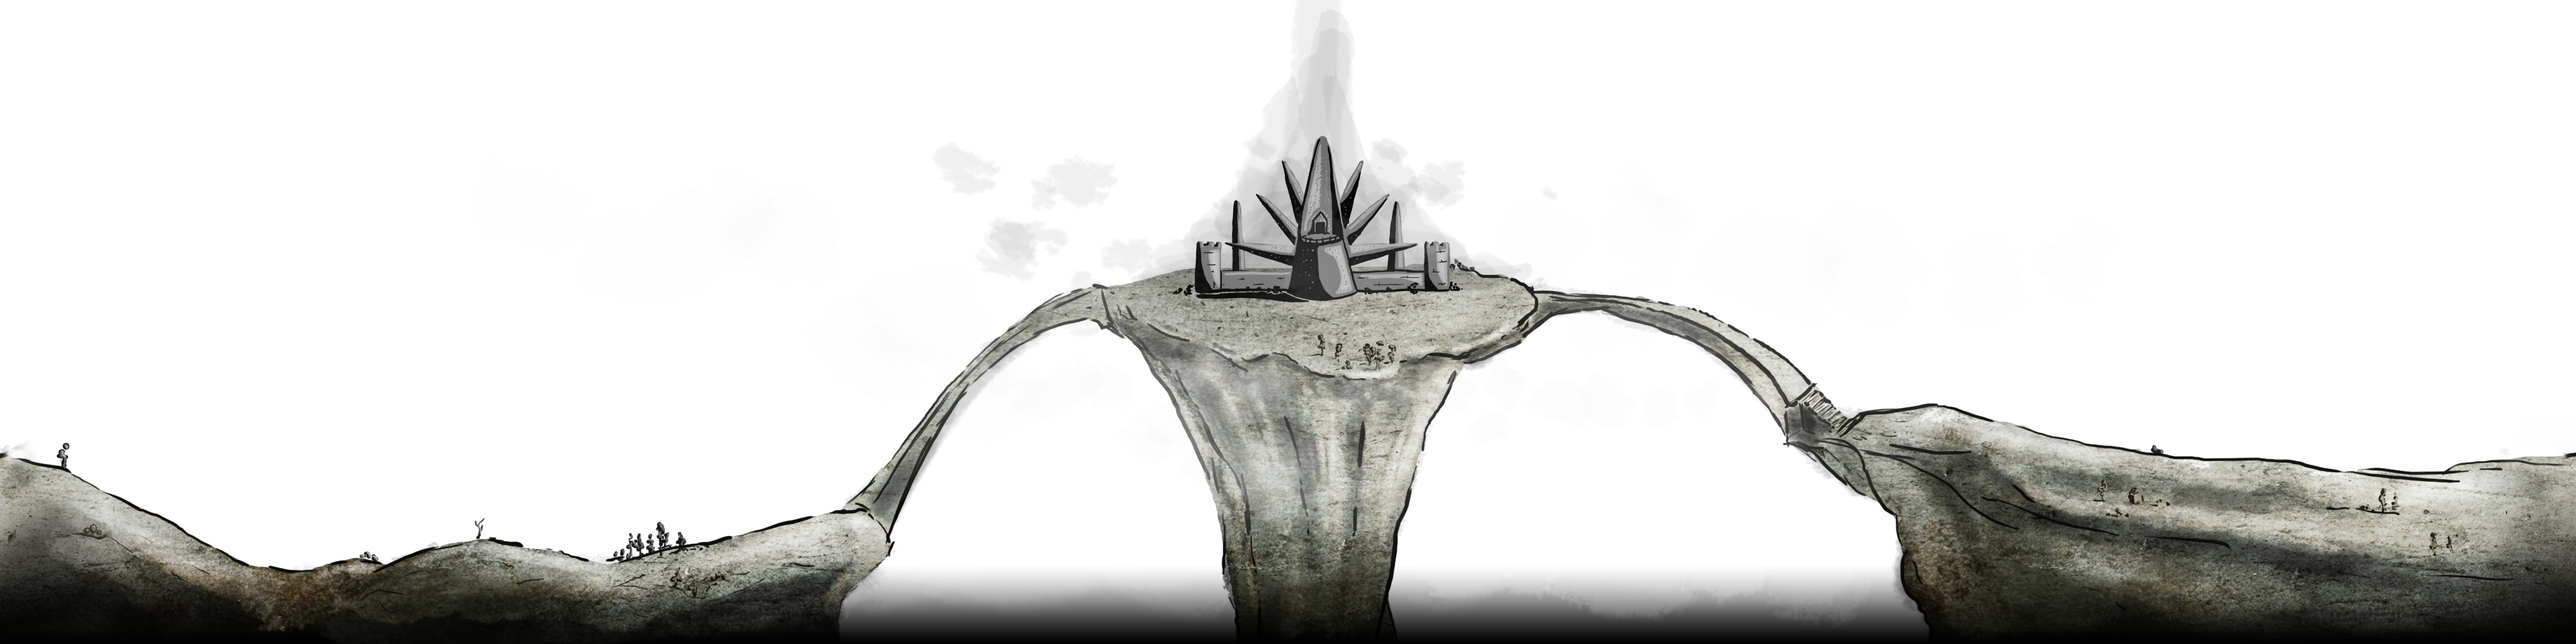
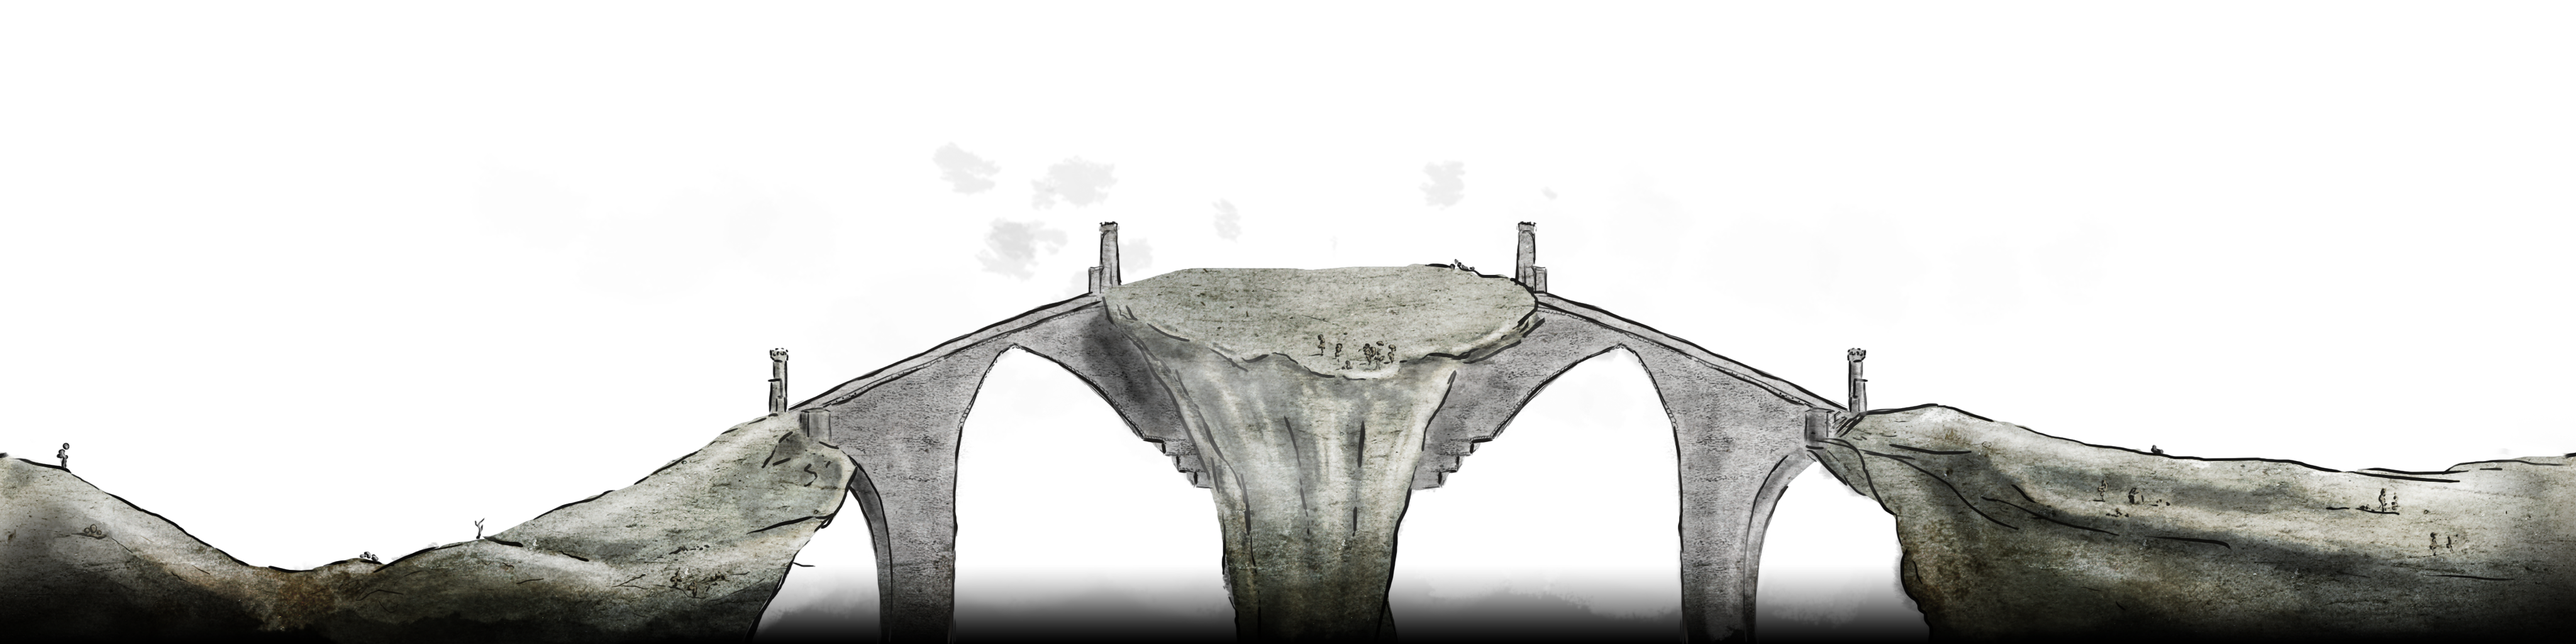
improved map2

Changed region(s): [[0.1875, 0.0312, 0.75, 1.0]]

diff --git a/com/BauhausGamesSyndicate/LudumDare29/overworld/Overworld.java b/com/BauhausGamesSyndicate/LudumDare29/overworld/Overworld.java
@@ -188,6 +188,71 @@ public class Overworld {
         heightmap[127] = 326;
         heightmap[128] = 300;
         
+        heightmap[129] = 284;
+        heightmap[130] = 263;
+        heightmap[131] = 230;
+        heightmap[132] = 200;
+        heightmap[133] = 163;
+        heightmap[134] = 129;
+        heightmap[135] = 118;
+        heightmap[136] = 121;
+        heightmap[137] = 133;
+        heightmap[138] = 132;
+        heightmap[139] = 153;
+        heightmap[140] = 165;
+        heightmap[141] = 188;
+        heightmap[142] = 218;
+        heightmap[143] = 238;
+        heightmap[144] = 261;
+        heightmap[145] = 294;
+        heightmap[146] = 338;
+        heightmap[147] = 356;
+        heightmap[148] = 386;
+        heightmap[149] = 415;
+        heightmap[150] = 439;
+        heightmap[151] = 464;
+        heightmap[152] = 490;
+        heightmap[153] = 515;
+        heightmap[154] = 537;
+        heightmap[155] = 555;
+        heightmap[156] = 541;
+        heightmap[157] = 505;
+        heightmap[158] = 483;
+        heightmap[159] = 465;
+        heightmap[160] = 471;
+        heightmap[161] = 440;
+        heightmap[162] = 436;
+        heightmap[163] = 460;
+        heightmap[164] = 471;
+        heightmap[165] = 490;
+        heightmap[166] = 537;
+        heightmap[167] = 546;
+        heightmap[168] = 526;
+        heightmap[169] = 502;
+        heightmap[170] = 478;
+        heightmap[171] = 450;
+        heightmap[172] = 426;
+        heightmap[173] = 398;
+        heightmap[174] = 370;
+        heightmap[175] = 369;
+        heightmap[176] = 380;
+        heightmap[177] = 364;
+        heightmap[178] = 347;
+        heightmap[179] = 329;
+        heightmap[180] = 315;
+        heightmap[181] = 306;
+        heightmap[182] = 296;
+        heightmap[183] = 293;
+        heightmap[184] = 294;
+        heightmap[185] = 289;
+        heightmap[186] = 275;
+        heightmap[187] = 278;
+        heightmap[188] = 271;
+        heightmap[189] = 283;
+        heightmap[190] = 290;
+        heightmap[191] = 295;
+        heightmap[192] = 300;
+        
         //place towns
         for (int i = 0; i < anzCitys; i++){
             
